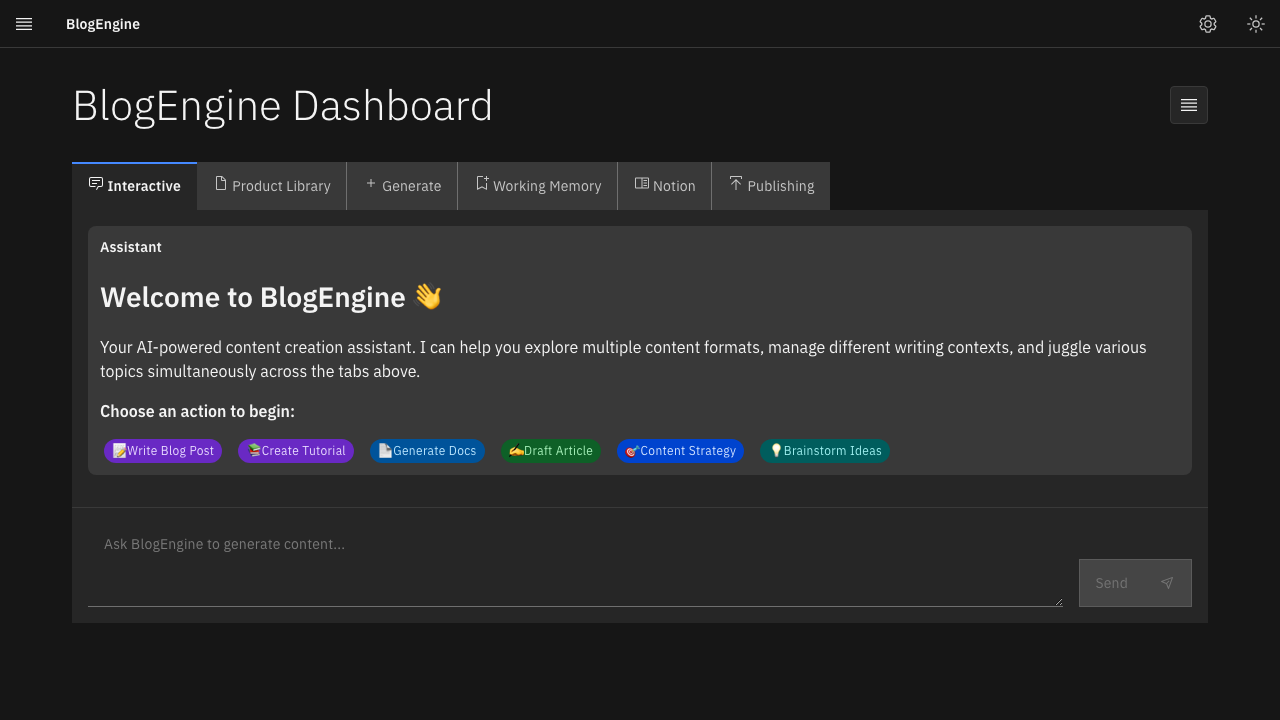
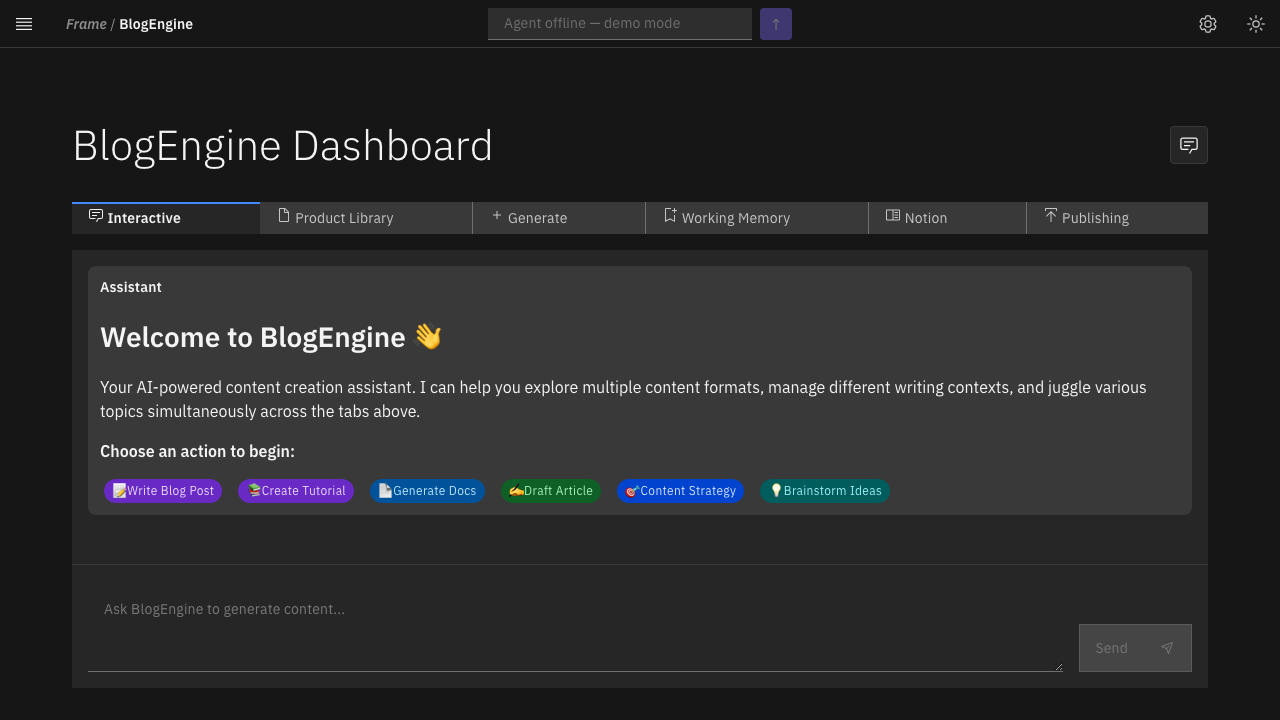
fix: capture preview screenshots with apps inside Frame shell
The Playwright capture script was screenshotting shell-hosted apps before
their Module Federation remotes had loaded, producing previews that showed
standalone/detached app chrome instead of the Frame shell compositor.

For apps loaded via ?app= parameter, wait for the .frame-fade-in selector
(rendered by AppFrame.tsx only after the MF remote resolves) plus a 500ms
settle delay for the fade-in animation. Standalone apps (daily-logger, tde,
hailstone) continue using networkidle only.

All 12 preview PNGs regenerated.

diff --git a/scripts/capture-previews.ts b/scripts/capture-previews.ts
@@ -25,6 +25,11 @@ for (const project of targets) {
   console.log(`Capturing ${project.id} — ${project.url}`);
   try {
     await page.goto(project.url, { waitUntil: "networkidle", timeout: 30_000 });
+    // For shell-hosted apps (?app=), wait for MF remote to load
+    if (project.url.includes("?app=")) {
+      await page.waitForSelector(".frame-fade-in", { timeout: 15_000 });
+      await page.waitForTimeout(500); // let fade-in animation settle
+    }
     await page.screenshot({ path, type: "png" });
     console.log(`  -> ${path}`);
   } catch (err) {
